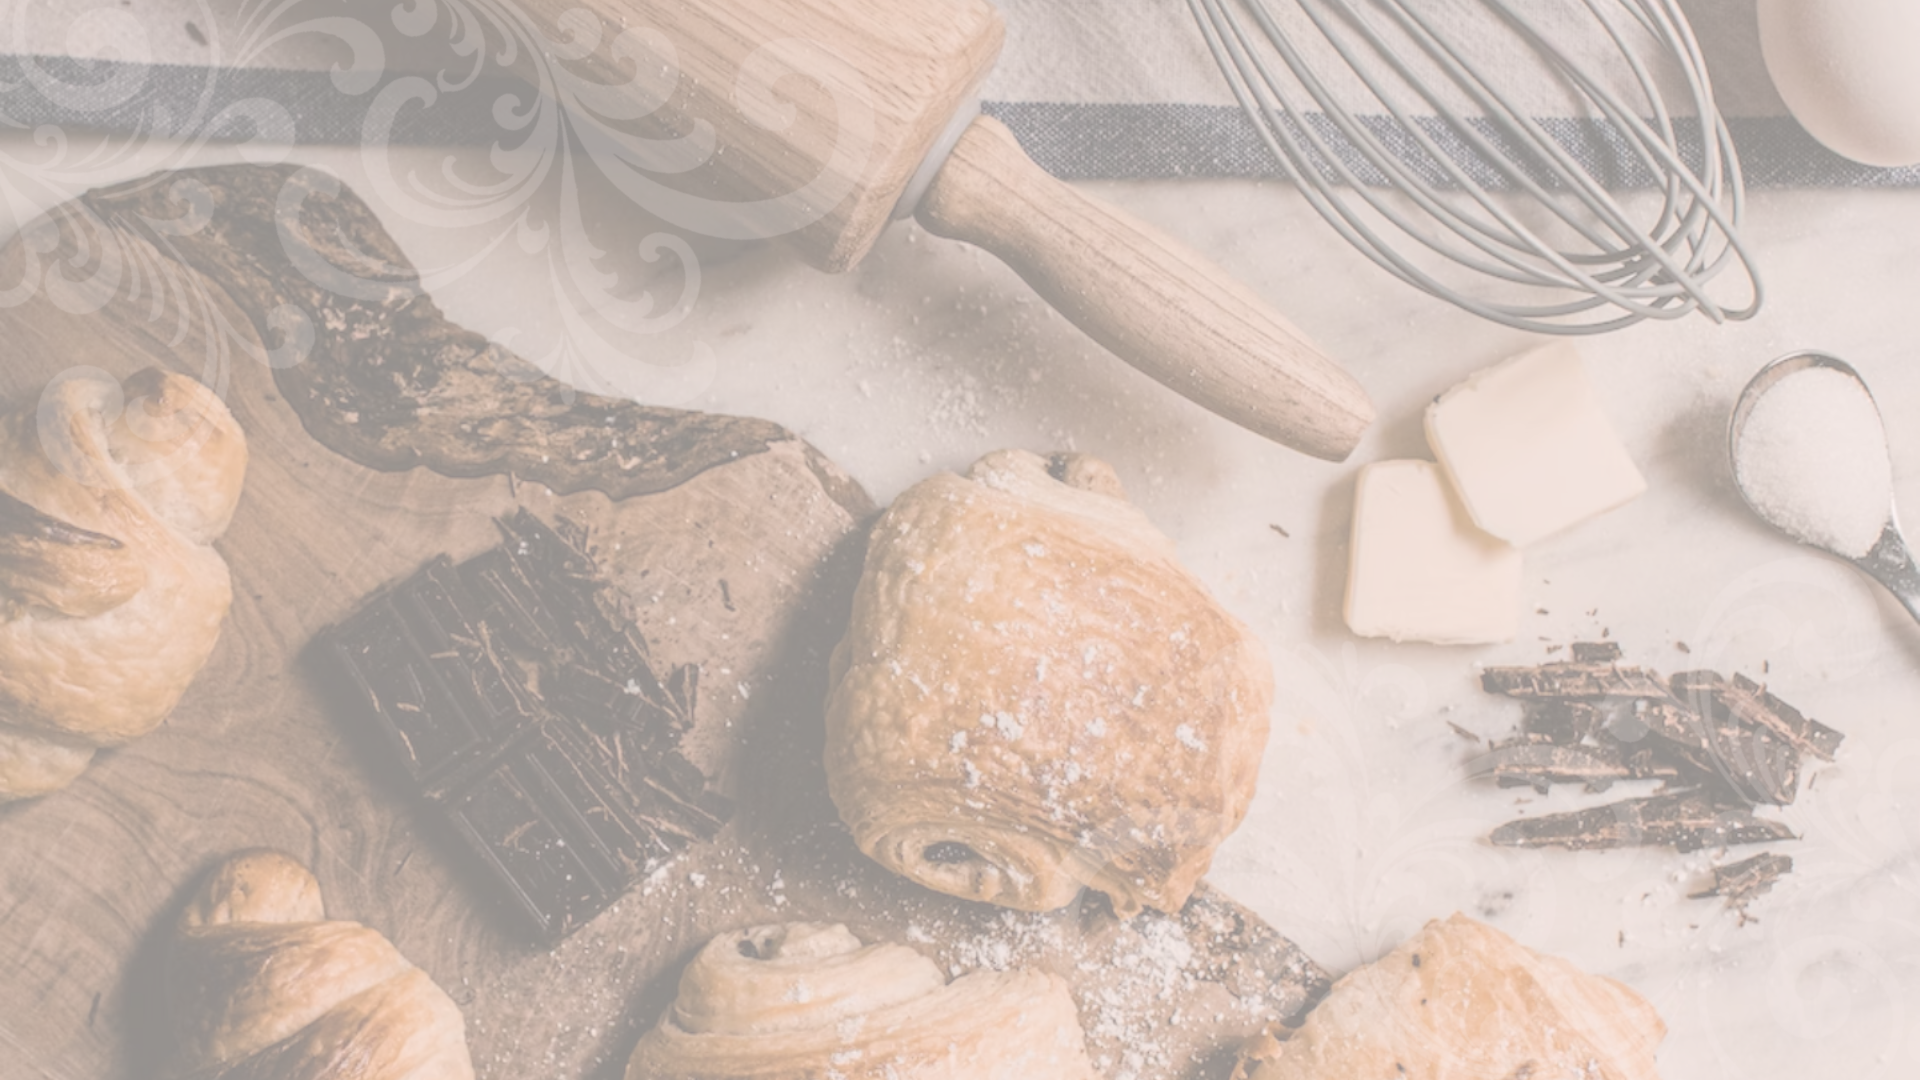
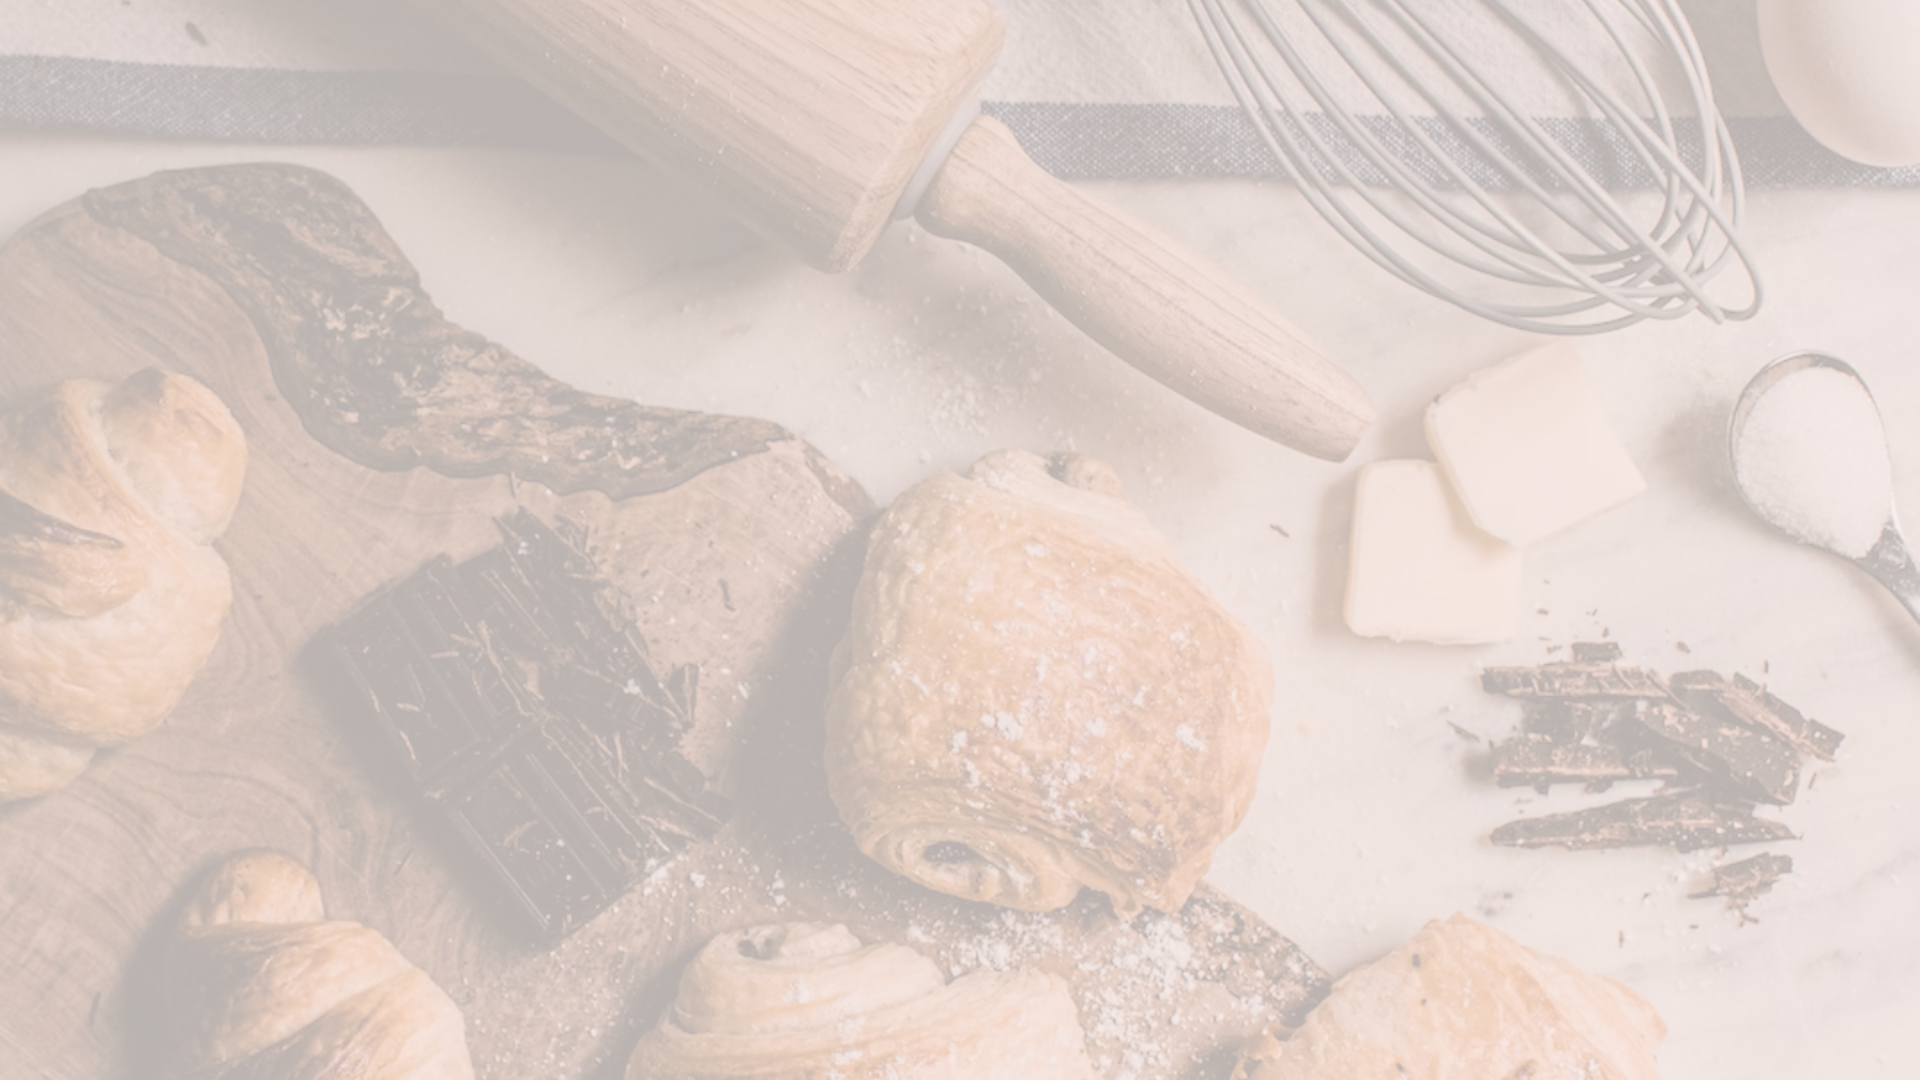
Adjust homepage main background and margins

diff --git a/styles.css b/styles.css
@@ -86,7 +86,15 @@ main {
     font-weight: 500;
     border: 2px solid var(--red-button);
     border-radius: .4em;
+    margin-bottom: 80px;
     padding: .2em 1em;
+    transition: all 200ms;
+}
+
+.main-order-button:hover {
+    background: var(--red-button);
+    color: var(--main-back);
+    border-color: var(--red-button-hover);
 }
 
 
